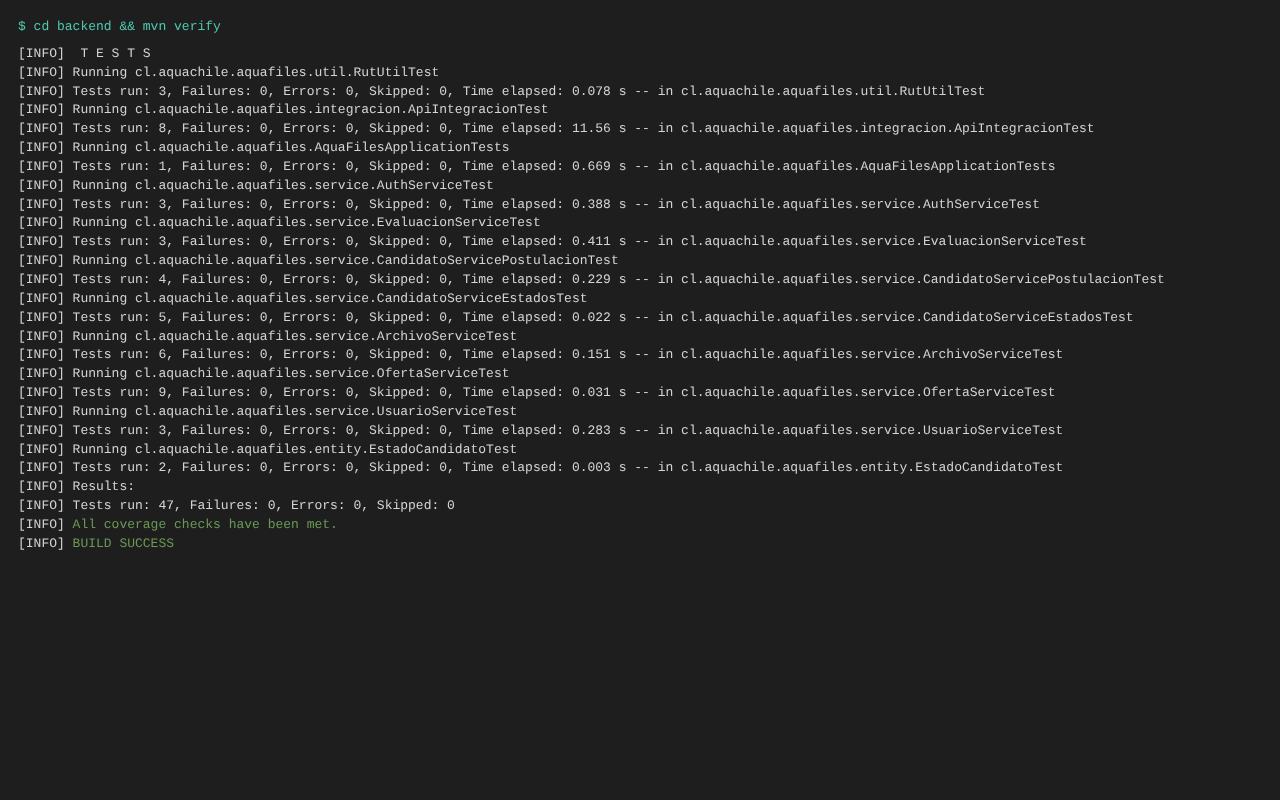
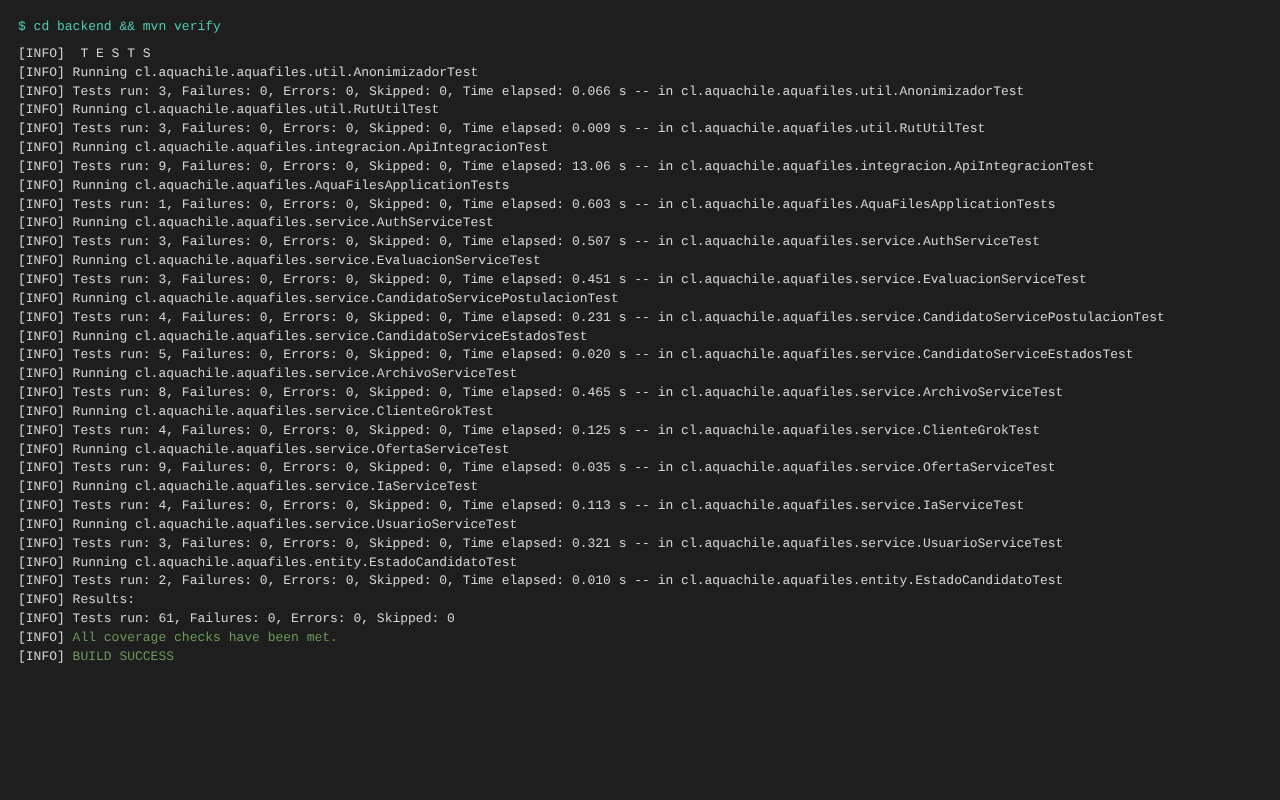
docs: documentar la integración con Grok y actualizar evidencias
Claude-Session: https://claude.ai/code/session_01HasejnTnKPEy6k4JHoJce9

diff --git a/docs/DOCUMENTO_TECNICO.md b/docs/DOCUMENTO_TECNICO.md
@@ -31,6 +31,7 @@ flowchart LR
     B -->|JPA + Flyway| D[(MySQL)]
     B -->|archivos| S[/Carpeta privada<br/>ARCHIVOS_DIRECTORIO/]
     F -->|OAuth del evaluador| G[Google Calendar API]
+    B -->|texto anonimizado + GROK_API_KEY| X[Grok · API de xAI]
 ```
 
 - **Frontend:** SPA en React. Llama a la API con `fetch` (`src/services/api.js`), que agrega el token, traduce los errores HTTP a mensajes en español y borra la sesión ante un 401.
@@ -47,7 +48,7 @@ flowchart LR
 | Base de datos | MySQL 8 + Flyway. H2 en memoria solo para las pruebas |
 | Documentación API | springdoc-openapi 2.8 (Swagger UI) |
 | Pruebas | Vitest, React Testing Library, user-event, `@vitest/coverage-v8` · JUnit 5, Mockito, MockMvc, JaCoCo |
-| Integraciones | Google Identity Services + Google Calendar API |
+| Integraciones | Google Identity Services + Google Calendar API · Grok (API de xAI) · Apache PDFBox para leer el CV |
 
 ## 3. Modelo de datos
 
@@ -175,6 +176,7 @@ erDiagram
 | POST | `/evaluaciones/{id}/informe` | Evaluador | Sube el informe y finaliza el proceso |
 | GET | `/usuarios/evaluadores` | Analista | Responsables disponibles |
 | GET | `/dashboard/resumen` | Analista | Indicadores del proceso |
+| POST | `/ia/candidatos/{id}/analisis` | Analista | Sugerencia de Grok: puntaje orientativo, fortalezas, brechas, preguntas y criterios |
 
 **Respuestas de error.** Todas tienen el mismo formato (`ManejadorErrores`):
 
@@ -189,6 +191,7 @@ erDiagram
 | 401 | Sin token, token falso o vencido, o credenciales incorrectas |
 | 403 | El rol no tiene permiso para esa ruta |
 | 404 | El recurso no existe (o la oferta no está publicada, para el portal) |
+| 503 | El apoyo de IA no está configurado o Grok no respondió (el resto del sistema sigue funcionando) |
 | 409 | Regla de negocio: RUT duplicado, cambio de estado no permitido, segundo CV, eliminar una oferta con postulaciones |
 
 ## 5. Autenticación JWT, sesión y permisos
@@ -266,14 +269,45 @@ El token de Google **no** pasa por el backend ni se guarda: Google lo entrega di
 
 ## 9. Integración de inteligencia artificial
 
-> **Pendiente:** esta sección se completa con la rama `feature/ia-grok`, que integra el modelo **Grok** según el ejemplo del profesor.
+AquaFiles usa **Grok** (modelo `grok-3-mini` de xAI, configurable con `GROK_MODELO`) como **apoyo al analista** en la ficha del candidato. Se eligió la opción de la pauta "puntuación orientativa de adecuación del CV al cargo", complementada con preguntas sugeridas para la entrevista.
 
-Lineamientos que debe cumplir la integración (punto 9 de la pauta):
+![Apoyo de IA en la ficha del analista](manual/17_apoyo_ia.png)
 
-- Es un **apoyo al analista**: no aprueba, rechaza ni deriva por sí sola.
-- Muestra los **criterios** usados y una **advertencia** de sus limitaciones. La **revisión humana es obligatoria**.
-- La llamada al modelo se hace desde el **backend**, con la clave en una variable de entorno (nunca en el frontend ni en el repositorio).
-- **No envía CV reales ni datos sensibles** a terceros: solo se usan datos ficticios, y no se envían el RUT, el correo ni el teléfono.
+**Cómo funciona** (`IaService`, `ClienteGrok`, `Anonimizador`):
+
+```mermaid
+sequenceDiagram
+    participant A as Analista (React)
+    participant B as Backend
+    participant G as Grok (xAI)
+    A->>B: POST /api/v1/ia/candidatos/{id}/analisis (JWT de analista)
+    B->>B: Lee el texto del CV en PDF (PDFBox)
+    B->>B: Quita nombre, RUT, correo y teléfono, y recorta a 6.000 caracteres
+    B->>G: Reglas + cargo, funciones, requisitos y CV anonimizado
+    G-->>B: JSON con puntaje, resumen, fortalezas, brechas, preguntas y criterios
+    B-->>A: Sugerencia + advertencia (no cambia el estado del candidato)
+```
+
+1. El analista presiona **Analizar CV con IA**.
+2. El backend toma el cargo, las funciones y los requisitos de la **oferta**, las observaciones técnicas y el **texto del CV** (solo PDF).
+3. `Anonimizador` reemplaza el nombre (con o sin tildes), el RUT, los correos y los teléfonos por `[nombre]`, `[rut]`, `[correo]` y `[teléfono]`.
+4. Se envía a Grok con instrucciones fijas (`IaService.INSTRUCCIONES`): evaluar solo experiencia, formación y habilidades relacionadas con el cargo, ignorar edad, género, origen, salud y otros datos personales, y declarar la información faltante en vez de inventarla.
+5. La respuesta se valida: debe ser JSON y el puntaje se limita a 0–100. Si Grok falla o responde en otro formato, la API devuelve **503** con un mensaje claro.
+
+**Revisión humana y límites (punto 9.a de la pauta):**
+
+| Requisito | Cómo se cumple |
+| :--- | :--- |
+| Apoyo, no decisión | El endpoint **no modifica** al candidato. Aprobar, rechazar y derivar siguen siendo botones manuales del analista |
+| Criterios visibles | La sugerencia muestra los **criterios** con que se llegó al puntaje, las fortalezas y las brechas |
+| Advertir limitaciones | Cada respuesta incluye la advertencia "Sugerencia generada por IA… puede equivocarse" y el texto **"Revisión humana obligatoria"** |
+| Sin datos sensibles a terceros | Solo sale el texto anonimizado: nunca el nombre, el RUT, el correo, el teléfono ni el archivo del CV. En la demo se usan CV ficticios |
+| Clave segura | `GROK_API_KEY` vive solo en el backend (variable de entorno). El frontend nunca ve la clave |
+| Sesgos | Las instrucciones prohíben usar datos personales para evaluar |
+
+**Limitaciones conocidas.** Solo se lee el texto de CV en PDF (un Word se evalúa sin CV, y la pantalla lo avisa). El puntaje depende del modelo y puede variar entre ejecuciones. No se guarda la sugerencia: es una ayuda puntual para el analista.
+
+**Configuración:** crear una clave en https://console.x.ai y definir `GROK_API_KEY` en `backend/.env` (local) o en Render. Sin la clave, el botón responde "El apoyo de IA no está configurado" y el resto del sistema funciona igual.
 
 ## 10. Variables de entorno
 
@@ -289,6 +323,9 @@ Lineamientos que debe cumplir la integración (punto 9 de la pauta):
 | `ARCHIVOS_DIRECTORIO` | Carpeta privada de CV e informes | `uploads` |
 | `CREAR_USUARIOS_PRUEBA` | Crea los usuarios y ofertas ficticias al arrancar | `true` |
 | `CLAVE_USUARIOS_PRUEBA` | Clave de los usuarios ficticios | `aqua123` |
+| `GROK_API_KEY` | Clave de la API de xAI (Grok). Sin ella, la IA responde 503 | (vacía) |
+| `GROK_MODELO` | Modelo de Grok | `grok-3-mini` |
+| `GROK_URL` | Dirección de la API | `https://api.x.ai/v1/chat/completions` |
 | `PORT` | Puerto HTTP | `8080` |
 
 **Frontend** (`.env.local`, ver `.env.example`):
@@ -339,5 +376,6 @@ Si no se dispone de backend público, la demostración se hace en local y se jus
 | Secretos solo en variables de entorno | El repositorio no contiene claves ni `.env` |
 | Usuarios de prueba desactivables (`CREAR_USUARIOS_PRUEBA=false`) | En producción no existen cuentas con clave conocida |
 | Solo datos ficticios | Lo exige la pauta; no se publica información de personas reales |
+| CV anonimizado antes de enviarlo a Grok | Ningún dato personal sale hacia el proveedor de IA |
 
 **Riesgo conocido.** El token se guarda en `localStorage`, que es accesible por JavaScript. Una vulnerabilidad XSS podría leerlo. React escapa el contenido por defecto y la app no usa `dangerouslySetInnerHTML`; para producción se recomienda una cookie `HttpOnly` con protección CSRF.

diff --git a/docs/INFORME_PRUEBAS.md b/docs/INFORME_PRUEBAS.md
@@ -4,8 +4,8 @@
 
 | Proyecto | Herramientas | Pruebas | Cobertura de líneas | Mínimo exigido |
 | :--- | :--- | :---: | :---: | :---: |
-| **Frontend** | Vitest + React Testing Library + user-event + `@vitest/coverage-v8` | **93** en 18 archivos | **92,29 %** | 85 % ✅ |
-| **Backend** | JUnit 5 + Mockito + MockMvc + JaCoCo | **47** en 11 clases | **95,2 %** | 85 % ✅ |
+| **Frontend** | Vitest + React Testing Library + user-event + `@vitest/coverage-v8` | **96** en 19 archivos | **92,47 %** | 85 % ✅ |
+| **Backend** | JUnit 5 + Mockito + MockMvc + JaCoCo | **61** en 14 clases | **95,4 %** | 85 % ✅ |
 
 Las dos coberturas se miden por separado y cada proyecto **falla automáticamente** si sus líneas cubiertas bajan del 85 %:
 - Frontend: `thresholds` en `vite.config.ts`.
@@ -21,7 +21,7 @@ Las pruebas usan solo **datos ficticios** y **CV de prueba**.
 
 ```bash
 npm install
-npm run test:run      # ejecuta las 93 pruebas
+npm run test:run      # ejecuta las 96 pruebas
 npm run coverage      # pruebas + reporte de cobertura (coverage/index.html)
 ```
 
@@ -29,7 +29,7 @@ npm run coverage      # pruebas + reporte de cobertura (coverage/index.html)
 
 ```bash
 cd backend
-mvn test              # ejecuta las 47 pruebas y genera target/site/jacoco/index.html
+mvn test              # ejecuta las 61 pruebas y genera target/site/jacoco/index.html
 mvn verify            # además comprueba el mínimo de 85 %
 ```
 
@@ -48,6 +48,7 @@ mvn verify            # además comprueba el mínimo de 85 %
 | `src/pages/PortalOfertasPage.test.jsx` | 3 | Portal sin sesión, filtro por categoría, modalidad y texto, sin resultados y error |
 | `src/pages/DetalleOfertaPage.test.jsx` | 4 | Detalle completo, postular con CV, error del backend, oferta no publicada |
 | `src/components/ArchivosCandidato.test.jsx` | 3 | Carpeta del CV, descarga con token, errores 403 y de conexión |
+| `src/components/ApoyoIa.test.jsx` | 3 | Panel de IA: sin sesión, sugerencia con criterios y advertencia, IA no configurada |
 | `src/components/AgendarGoogleCalendar.test.jsx` | 3 | Sin configurar, creación del evento con enlaces de Meet, error de Google |
 | `src/components/FormularioPostulacion.test.jsx` | 2 | Errores de validación y envío correcto |
 | `src/components/ConsultaPostulacion.test.jsx` | 4 | RUT inválido, no encontrado, sin formato y búsqueda en el servidor |
@@ -70,10 +71,10 @@ mvn verify            # además comprueba el mínimo de 85 %
 
 | Métrica | Resultado |
 | :--- | :---: |
-| Líneas | **92,29 %** (611/662) |
-| Sentencias | 91,36 % |
-| Funciones | 90,51 % |
-| Ramas | 88,34 % |
+| Líneas | **92,47 %** |
+| Sentencias | 91,44 % |
+| Funciones | 90,73 % |
+| Ramas | 88,64 % |
 
 Detalle por archivo: [`evidencias/cobertura-frontend.txt`](evidencias/cobertura-frontend.txt).
 
@@ -85,9 +86,12 @@ Detalle por archivo: [`evidencias/cobertura-frontend.txt`](evidencias/cobertura-
 
 | Clase | Pruebas | Tipo | Qué prueba |
 | :--- | :---: | :--- | :--- |
-| `integracion.ApiIntegracionTest` | 8 | Integración (MockMvc + H2) | Flujo completo por HTTP: login, 401 y 403, ofertas y portal, postulación con CV, estados, evaluación, informe y dashboard |
+| `integracion.ApiIntegracionTest` | 9 | Integración (MockMvc + H2) | Flujo completo por HTTP: login, 401 y 403, ofertas y portal, postulación con CV, estados, evaluación, informe, dashboard y permisos de la IA |
+| `service.IaServiceTest` | 4 | Unitaria | Datos anonimizados enviados a Grok, lectura del JSON, puntaje 0–100, sin clave |
+| `service.ClienteGrokTest` | 4 | Unitaria (servidor simulado) | Modelo, mensajes y clave enviados a xAI; errores y respuesta vacía |
+| `util.AnonimizadorTest` | 3 | Unitaria | Quita nombre (con o sin tildes), RUT, correo y teléfono |
 | `service.OfertaServiceTest` | 9 | Unitaria | Crear, validar sueldo, publicar, despublicar, editar, eliminar y portal |
-| `service.ArchivoServiceTest` | 6 | Unitaria | Carpeta del postulante, formatos, tamaño, un solo CV, descarga y borrado |
+| `service.ArchivoServiceTest` | 8 | Unitaria | Carpeta del postulante, formatos, tamaño, un solo CV, descarga, borrado y lectura del PDF |
 | `service.CandidatoServiceEstadosTest` | 5 | Unitaria | Transiciones de estado y derivar con responsable |
 | `service.CandidatoServicePostulacionTest` | 4 | Unitaria | Postulación, RUT duplicado y oferta publicada o no |
 | `service.AuthServiceTest` | 3 | Unitaria | Login válido, inválido y renovación |
@@ -107,11 +111,11 @@ Detalle por archivo: [`evidencias/cobertura-frontend.txt`](evidencias/cobertura-
 | `security` | 100,0 % |
 | `entity` | 98,3 % |
 | `dto` | 97,6 % |
-| `service` | 93,3 % |
-| `util` | 93,1 % |
-| `controller` | 92,1 % |
-| `exception` | 89,7 % |
-| **Total** | **95,2 %** (793/833) |
+| `util` | 96,6 % |
+| `service` | 94,0 % |
+| `controller` | 91,2 % |
+| `exception` | 91,2 % |
+| **Total** | **95,4 %** (920/964) |
 
 Detalle: [`evidencias/cobertura-backend.txt`](evidencias/cobertura-backend.txt) · Salida completa: [`evidencias/pruebas-backend.txt`](evidencias/pruebas-backend.txt).
 
@@ -127,6 +131,7 @@ Detalle: [`evidencias/cobertura-backend.txt`](evidencias/cobertura-backend.txt) 
 | Validaciones | `validaciones.test.js` · `ofertas.test.js` · formularios | `ApiIntegracionTest.laOfertaValidaSusCampos` (400 con campos, JSON inválido) |
 | Cambio de estados | `App.test.jsx` (aprobar, rechazar, derivar con responsable) | `CandidatoServiceEstadosTest` · `ApiIntegracionTest` (salto de etapa 409) |
 | Flujo integrado | `App.test.jsx`: analista → evaluador → postulante | `ApiIntegracionTest.flujoCompletoDesdeLaPostulacionHastaElInforme` |
+| IA con revisión humana | `ApoyoIa.test.jsx` | `IaServiceTest` · `ClienteGrokTest` · `AnonimizadorTest` |
 
 ---
 
@@ -143,6 +148,7 @@ Además de las pruebas automáticas, se recorrió el sistema completo en el nave
 | Postulante consulta por RUT | ✅ Ve la fecha y el estado general, sin datos internos |
 | Sin sesión: listar archivos y subir un segundo CV | ✅ `401` y `409` |
 | Errores de JavaScript en el navegador | ✅ Ninguno |
+| Apoyo de IA con un servidor que imita a Grok | ✅ Grok recibe cargo, requisitos y CV sin nombre, RUT, correo ni teléfono; la ficha muestra puntaje, criterios y advertencia |
 
 Las capturas de esa prueba están en el [Manual de usuario](MANUAL_USUARIO.md).
 

diff --git a/README.md b/README.md
@@ -59,8 +59,8 @@ Hoy el proceso de selección se apoya en planillas Excel, Planner y archivos rep
 | 6. Portal público | Página **Empleos** sin login: búsqueda, filtro por categoría y modalidad, detalle y botón **Postular** |
 | 7. Postulación y CV | Formulario validado; el CV se guarda en una carpeta privada `nombre-del-postulante-ID`, ligada a la postulación y a la oferta |
 | 8. Evaluación y seguimiento | Solicitud con cargo y responsable, fechas, observaciones, estados (Pendiente, En proceso, Finalizada) y dashboard |
-| 9. Inteligencia artificial | 🔜 Integración con Grok (rama `feature/ia-grok`) |
-| 10. Pruebas y cobertura ≥ 85 % | Frontend **92,3 %** (93 pruebas) · Backend **95,2 %** (47 pruebas) |
+| 9. Inteligencia artificial | **Grok** sugiere al analista una puntuación orientativa, fortalezas, brechas y preguntas de entrevista, con criterios visibles, CV anonimizado y revisión humana obligatoria |
+| 10. Pruebas y cobertura ≥ 85 % | Frontend **92,5 %** (96 pruebas) · Backend **95,4 %** (61 pruebas) |
 | 11. Despliegue | Frontend en Vercel; backend según la [guía de despliegue](docs/GUIA_DESPLIEGUE.md) |
 | Extra | Agenda de entrevistas en **Google Calendar con Meet**, basada en el ejemplo del profesor |
 
@@ -93,6 +93,7 @@ Hoy el proceso de selección se apoya en planillas Excel, Planner y archivos rep
 ### Analista de Reclutamiento
 
 - Crear, editar, publicar y despublicar ofertas laborales.
+- Pedir a la IA (Grok) una sugerencia sobre el CV: puntaje orientativo, brechas y preguntas de entrevista.
 - Registrar candidatos y crear solicitudes ("Nueva solicitud").
 - Descargar el CV de cada postulante.
 - Buscar y filtrar por texto, estado y centro de costos.
@@ -147,7 +148,7 @@ Hoy el proceso de selección se apoya en planillas Excel, Planner y archivos rep
 | Publicación de ofertas y portal público | Avisos en sitios externos | Alta | ✅ Disponible |
 | CV en carpeta privada por postulante | Carpetas compartidas | Alta | ✅ Disponible |
 | Agenda en Google Calendar con Meet | Agendamiento por Teams | Media | ✅ Disponible |
-| Apoyo de IA al analista (Grok) | Revisión manual de CV | Media | 🔜 En desarrollo |
+| Apoyo de IA al analista (Grok) | Revisión manual de CV | Media | ✅ Disponible |
 
 ---
 
@@ -301,11 +302,11 @@ Implementado:
 - Postulación con CV guardado en una carpeta privada por postulante.
 - Filtros, estados, derivación con responsable, agendamiento y finalización del proceso.
 - Agenda de entrevistas en Google Calendar con enlace de Meet.
+- Apoyo de IA con **Grok** para el analista, con CV anonimizado y revisión humana obligatoria.
 - Pruebas unitarias y funcionales con cobertura sobre el 85 % en el frontend y en el backend.
 
 Pendiente:
 
-- Apoyo de IA con **Grok** para el analista (rama `feature/ia-grok`).
 - Notificaciones por correo y historial de cambios por solicitud.
 - Almacenamiento de archivos en un servicio gestionado (S3 o similar) para producción.
 
@@ -330,8 +331,8 @@ Pendiente:
 
 | Proyecto | Pruebas | Cobertura de líneas | Comando |
 | :--- | :---: | :---: | :--- |
-| Frontend (Vitest + Testing Library) | 93 | **92,3 %** | `npm run coverage` |
-| Backend (JUnit + MockMvc + JaCoCo) | 47 | **95,2 %** | `cd backend && mvn verify` |
+| Frontend (Vitest + Testing Library) | 96 | **92,5 %** | `npm run coverage` |
+| Backend (JUnit + MockMvc + JaCoCo) | 61 | **95,4 %** | `cd backend && mvn verify` |
 
 Cada proyecto falla si su cobertura baja del 85 %. Las pruebas del backend usan **H2 en memoria**, así que no necesitan MySQL. El detalle de cada prueba, los escenarios de la pauta y las evidencias están en el [Informe de pruebas](docs/INFORME_PRUEBAS.md).
 
@@ -347,7 +348,7 @@ Cada proyecto falla si su cobertura baja del 85 %. Las pruebas del backend usan 
 | Backend | Java 21, Spring Boot 3.5, Spring Security con JWT, Spring Data JPA, Swagger (springdoc) |
 | Base de datos | MySQL 8 con migraciones Flyway (H2 solo en pruebas) |
 | Pruebas | Vitest, React Testing Library, user-event, JUnit 5, Mockito, MockMvc, JaCoCo |
-| Integraciones | Google Calendar API + Google Meet |
+| Integraciones | Grok (API de xAI) para el apoyo de IA · Google Calendar API + Google Meet · Apache PDFBox |
 | Calidad y despliegue | Oxlint, Vercel |
 
 ### Estructura del repositorio
